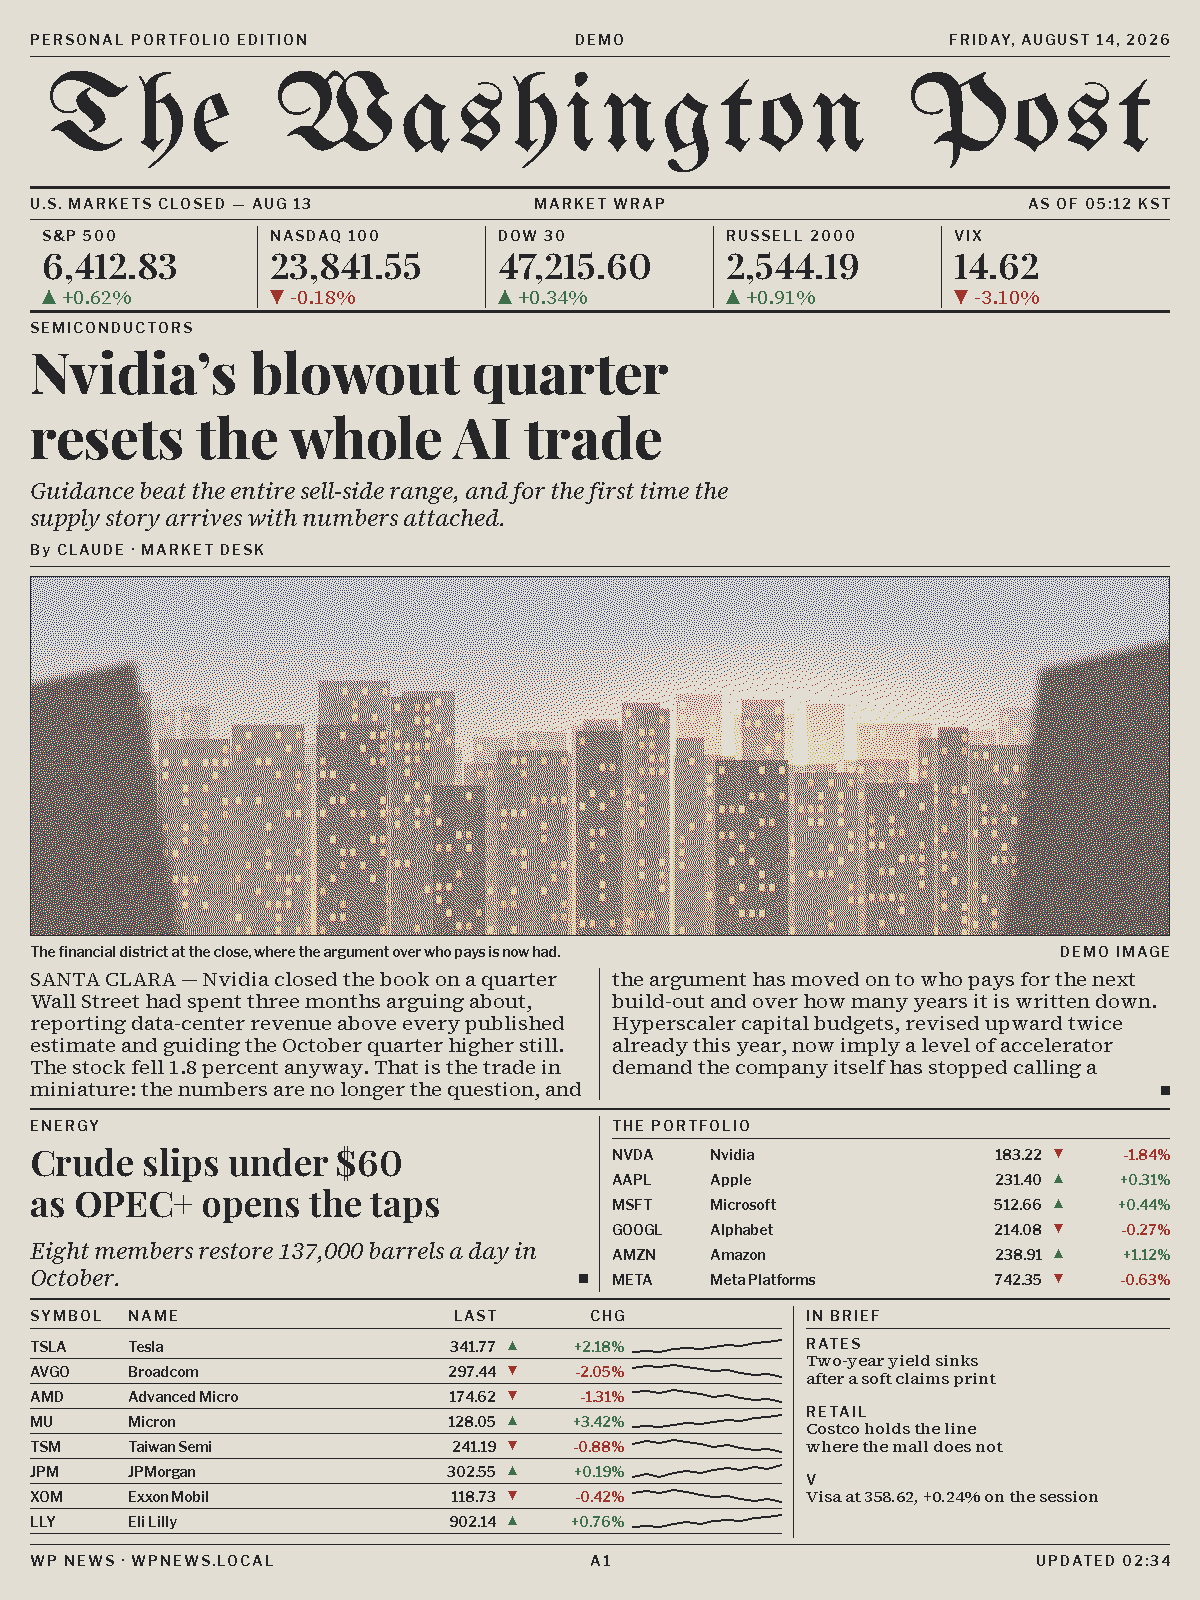
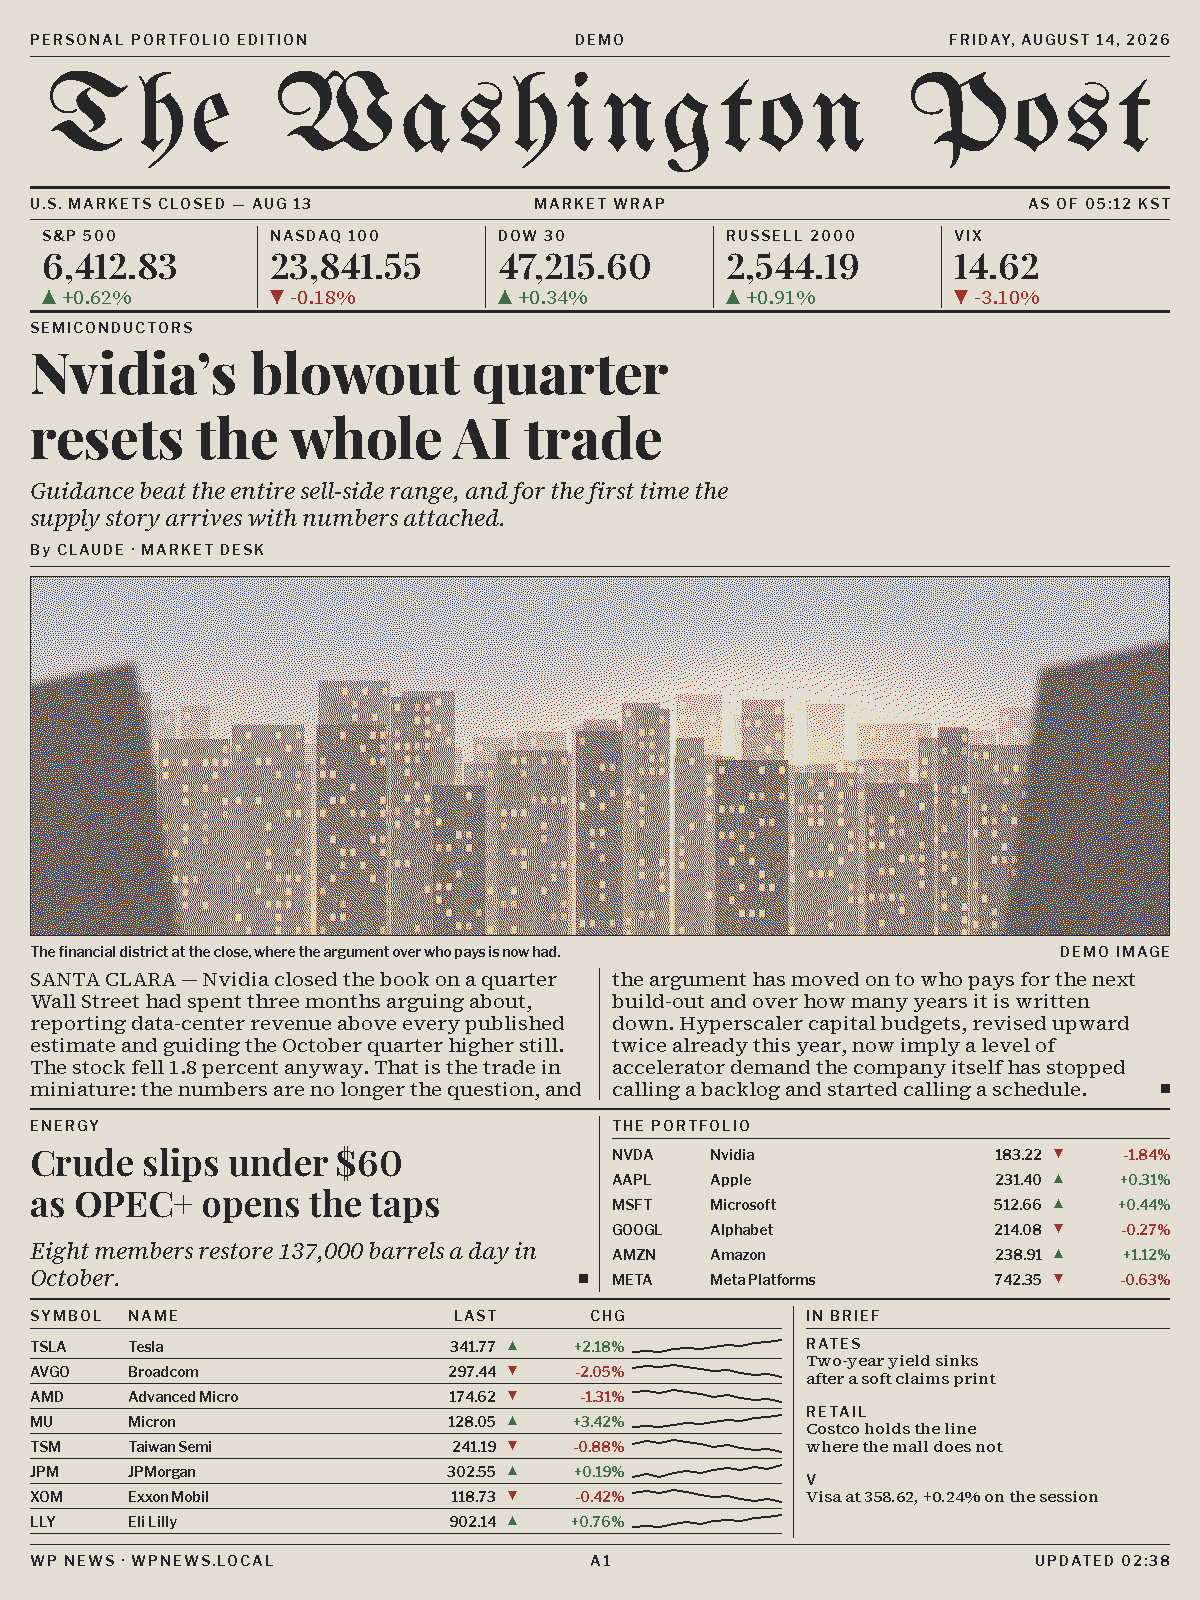
fix(front page): set the end mark inline, not on a line of its own
The end-of-story square was reserving a whole label_14 line at the foot of the
last leg. A press does not do that — the mark sits on the last line of type,
after the final word, and only needs the width of itself plus a word space.

So the reserve moves from vertical to horizontal: UI_END_MEASURE(w) takes the
square and one field gap off the measure of the leg that carries it, and the
copyfit is handed the narrower width. The leg keeps its full height, which is
the point: the previous version spent 18 px of every column on white space to
hold a 9 px mark.

Simulator 0 problems across ten sheets, eight host suites pass, firmware links.

Changed region(s): [[0.4933, 0.625, 0.9558, 0.6875]]

diff --git a/components/news_core/ui_page_front.c b/components/news_core/ui_page_front.c
@@ -134,6 +134,14 @@
  * character is appended to a string ui_fit_text has already decided fits. */
 #define FP_CAP_ELLIPSIS 16
 
+/* Where the lead's legs stand, which is the only thing the photograph changes
+ * about them. Two macros rather than the ternary written out at each of the
+ * three places that needs it — the layout, the copyfit and the end mark — all
+ * of which have to agree to the pixel or the story's closing square lands in
+ * the middle of its own last paragraph. */
+#define FP_LEG_Y(photo) ((photo) ? UI_LEAD_UNDER_Y : UI_LEAD_SPLIT_Y)
+#define FP_LEG_H(photo) ((photo) ? UI_LEAD_UNDER_H : UI_LEAD_BODY_H)
+
 /* Copy buffers, sized in BYTES against slots measured in CHARACTERS. The lead
  * takes 636 characters across its two legs under a photograph and 2,400 with a
  * chart in one of them instead, but a copy desk emits em dashes and accented
@@ -567,14 +575,17 @@ static void build_lead(void)
                        UI_LEAD_CAP_Y, UI_LEAD_CRED_MAX_W,
                        LV_TEXT_ALIGN_RIGHT, "");
 
+    /* The last leg is the narrow one: it is the leg the story ends in, and
+     * UI_LEAD_LEG_W is what the end mark's column costs it. */
     for (int i = 0; i < UI_LEAD_COLS; i++) {
         s_lead_body[i] = column(UI_LEAD_COL_X(i), UI_LEAD_SPLIT_Y,
-                                UI_LEAD_COL_W, UI_LEAD_BODY_H, UI_F_BODY_LG);
+                                i == UI_LEAD_COLS - 1 ? UI_LEAD_LEG_W
+                                                      : UI_LEAD_COL_W,
+                                UI_LEAD_BODY_H, UI_F_BODY_LG);
     }
 
-    /* The square that closes the story. Placed by lead_layout() rather than
-     * here, because it sits at the foot of the LAST leg and the legs move
-     * between the well's two shapes. */
+    /* The square that closes the story. Placed by set_lead_body(), which is
+     * where the copy that decides which line is the last one is settled. */
     s_lead_end = ui_fill(s_page, UI_LEAD_COL_X(UI_LEAD_COLS - 1), UI_LEAD_SPLIT_Y,
                          UI_END_SIDE, UI_END_SIDE);
 
@@ -608,41 +619,53 @@ static void edge_box(int x, int y, int w, int h)
     lv_obj_set_height(s_lead_edge[3], h);
 }
 
-/* How much of a leg is not the leg: one label_14 line at the foot of the LAST
- * one, kept back for the end-of-story square. It is measured off the face
- * rather than written down so that a regenerated label_14 moves the reserve and
- * the mark together. */
-static int end_reserve(void)
-{
-    return lv_font_get_line_height(UI_F_LABEL);
-}
-
-/* The well's two shapes, in the only four objects that move between them: the
- * legs, the rule between them and the end mark start under the photograph when
- * there is one and at the split when there is not. Positioned rather than built
- * twice — a second pair of body labels would be a second pair to blank, and the
- * failure that hides in that is the pair nobody blanked.
- *
- * Only the LAST leg is shortened. The first one runs to the foot of the well as
- * it always did: a story reads down column one and continues at the top of
- * column two, so column one has no end to mark and giving it a reserve would
- * cost a line of copy to close nothing. */
+/* The well's two shapes, in the only three objects that move between them: the
+ * legs and the rule between them start under the photograph when there is one
+ * and at the split when there is not. Positioned rather than built twice — a
+ * second pair of body labels would be a second pair to blank, and the failure
+ * that hides in that is the pair nobody blanked. */
 static void lead_layout(bool photo)
 {
-    const int y    = photo ? UI_LEAD_UNDER_Y : UI_LEAD_SPLIT_Y;
-    const int h    = photo ? UI_LEAD_UNDER_H : UI_LEAD_BODY_H;
-    const int keep = end_reserve();
+    const int y = FP_LEG_Y(photo);
+    const int h = FP_LEG_H(photo);
 
     for (int i = 0; i < UI_LEAD_COLS; i++) {
         lv_obj_set_pos(s_lead_body[i], UI_LEAD_COL_X(i), y);
-        ui_lab_wrap(s_lead_body[i], i == UI_LEAD_COLS - 1 ? h - keep : h);
+        ui_lab_wrap(s_lead_body[i], h);
     }
     lv_obj_set_pos(s_lead_vrule, UI_LEAD_VRULE_X, y);
     lv_obj_set_height(s_lead_vrule, h);
+}
 
-    lv_obj_set_pos(s_lead_end,
-                   UI_LEAD_COL_X(UI_LEAD_COLS - 1) + UI_LEAD_COL_W - UI_END_SIDE,
-                   y + h - keep + (keep - UI_END_SIDE) / 2);
+/* The end-of-story square, on the last line a box actually set.
+ *
+ * One measurement and no second opinion about the copy: the text is the string
+ * that has already been fitted, `w` is the measure it was fitted to — the one
+ * with UI_END_MEASURE's column taken out — and the height it sets at, divided
+ * by the face's, is which line the mark belongs on. LVGL rounds an ellipsis
+ * down to a whole line, so clamping to the lines the box can show is exact
+ * rather than approximate.
+ *
+ * `right` is the edge the mark hangs from, and it is the FULL measure's rather
+ * than the text's: the square lines up with the rules, the photograph and the
+ * headline above it, in the column no line of the copy can reach. */
+static void end_mark(lv_obj_t *m, const char *txt, const lv_font_t *f,
+                     int right, int y, int w, int h)
+{
+    const int lh = lv_font_get_line_height(f);
+    if (!txt || !txt[0] || lh <= 0 || h < lh) { ui_show(m, false); return; }
+
+    lv_point_t sz;
+    lv_text_get_size(&sz, txt, f, 0, 0, (int32_t)w, LV_TEXT_FLAG_NONE);
+
+    const int max = h / lh;
+    int lines = (int)((sz.y + lh - 1) / lh);
+    if (lines < 1)   lines = 1;
+    if (lines > max) lines = max;
+
+    lv_obj_set_pos(m, right - UI_END_SIDE,
+                   y + (lines - 1) * lh + (lh - UI_END_SIDE) / 2);
+    ui_show(m, true);
 }
 
 /* The lead well with no lead in it: the same five indices as band 4, one to a
@@ -844,18 +867,15 @@ static int split_h(const char *body, int w, int h, const lv_font_t *f)
     return first * lh;
 }
 
-/* The last leg is copyfitted into a box one line shorter than it has, and that
- * line is where the end mark goes. It is done HERE, in the caller, rather than
- * inside ui_fit_text: that function's contract is "fit this text in this box",
- * and one that quietly held a line back for something it cannot see would
- * surprise every other caller of it. What is left over is dropped, which is the
- * whole of the policy — this paper has two pages and the second one is a
- * quotation table, so there is nowhere for a story to be continued to and a
- * jump line would be a lie set in italic.
+/* Each leg is copyfitted to its OWN measure, and the last one's is narrower by
+ * the column the end mark stands in. Whatever does not fit is dropped, which is
+ * the whole of the policy: this paper has two pages, the second is a quotation
+ * table, so there is nowhere for a story to be continued to and a "Continued on
+ * A2" would be a lie set in italic. The square is what says so.
  *
- * The mark is shown only when the leg it closes has type in it. A square alone
- * at the foot of an empty column is not an end mark, it is a speck. */
-static void set_lead_body(const char *body, bool two_col, int h)
+ * It is shown only when the leg it closes has type in it. A square alone at the
+ * foot of an empty column is not an end mark, it is a speck. */
+static void set_lead_body(const char *body, bool two_col, int y, int h)
 {
     size_t used = 0;
 
@@ -867,11 +887,13 @@ static void set_lead_body(const char *body, bool two_col, int h)
     }
     ui_show(s_lead_body[0], two_col);
 
-    ui_fit_text(UI_F_BODY_LG, UI_LEAD_COL_W, h - end_reserve(), 0,
+    ui_fit_text(UI_F_BODY_LG, UI_LEAD_LEG_W, h, 0,
                 body + used, s_copy_lead[1], sizeof s_copy_lead[1]);
     ui_set(s_lead_body[1], s_copy_lead[1]);
     ui_show(s_lead_body[1], true);
-    ui_show(s_lead_end, s_copy_lead[1][0] != '\0');
+
+    end_mark(s_lead_end, s_copy_lead[1], UI_F_BODY_LG, UI_CONTENT_R,
+             y, UI_LEAD_LEG_W, h);
 }
 
 /* The whole of the layout decision, and it is one question asked once: did the
@@ -950,7 +972,7 @@ static void set_lead(const news_story_t *st)
     ui_show(s_lead_cap, photo);
     ui_show(s_lead_cred, cw > 0);
 
-    set_lead_body(st->body, !chart, photo ? UI_LEAD_UNDER_H : UI_LEAD_BODY_H);
+    set_lead_body(st->body, !chart, FP_LEG_Y(photo), FP_LEG_H(photo));
 }
 
 /* --- band 6: one story, and the portfolio ---------------------------------
@@ -998,32 +1020,14 @@ static void set_second(const news_story_t *st)
              st->headline, s_head_sec, sizeof s_head_sec);
     ui_set(s_sec.deck, st->deck);
 
-    /* The end mark goes on the deck's LAST line, which is where a printed one
-     * goes — not on a line of its own under it, because band 6 has no line to
-     * spare (see UI_SECOND_DECK_W). Which line that is takes one measurement:
-     * the deck's height at its own measure, divided by the face's, clamped to
-     * the lines the box can show. LVGL's ellipsis rounds down to a whole line,
-     * so the clamp is exact rather than approximate.
-     *
-     * A story with no deck gets no mark. Its last element is then the headline,
-     * and a headline is not a thing an end mark closes — that item is a brief,
-     * and briefs do not carry one. */
-    const int lh  = lv_font_get_line_height(UI_F_DECK);
-    const int max = lh > 0 ? UI_SECOND_DECK_H / lh : 1;
-
-    lv_point_t sz;
-    lv_text_get_size(&sz, st->deck, UI_F_DECK, 0, 0, UI_SECOND_DECK_W,
-                     LV_TEXT_FLAG_NONE);
-
-    int lines = lh > 0 ? (int)((sz.y + lh - 1) / lh) : 1;
-    if (lines < 1)   lines = 1;
-    if (lines > max) lines = max;
-
-    lv_obj_set_pos(s_sec_end, UI_SECOND_X + UI_SECOND_W - UI_END_SIDE,
-                   UI_SECOND_DECK_Y + (lines - 1) * lh + (lh - UI_END_SIDE) / 2);
-
     show_story(true);
-    ui_show(s_sec_end, st->deck[0] != '\0');
+
+    /* The deck is this story's last element — there is no body under it — so
+     * the deck is what the mark closes. A story with no deck gets none: its
+     * last element is then the headline, and a headline is not a thing an end
+     * mark closes. That item is a brief, and briefs do not carry one. */
+    end_mark(s_sec_end, st->deck, UI_F_DECK, UI_SECOND_X + UI_SECOND_W,
+             UI_SECOND_DECK_Y, UI_SECOND_DECK_W, UI_SECOND_DECK_H);
 }
 
 static void build_rail(void)

diff --git a/components/news_core/ui_internal.h b/components/news_core/ui_internal.h
@@ -304,21 +304,37 @@ extern "C" {
 #define UI_LEAD_CAP_GAP       UI_TICKER_FIELD_GAP       /*    8 */
 
 /* --- the end-of-story mark -------------------------------------------------
- * A small filled square at the foot of the last leg of a story, flush right of
- * its measure. Every broadsheet closes a story with one, and this sheet needed
- * it more than most: a leg copyfitted to its box stops on whatever word the
- * pixel ran out on, so without a mark the reader cannot tell a story that ended
- * from one that was cut — and on a two-page paper whose second page is a
- * quotation table, there is nowhere for a cut story to be continued TO. The
- * bytes past the cut are dropped, and the square is the page saying so.
+ * A small filled square on the last line of a story, flush right of its
+ * measure. Every broadsheet closes a story with one, and this sheet needs it
+ * more than most: a leg copyfitted to its box stops on whatever word the pixel
+ * ran out on, so without a mark the reader cannot tell a story that ended from
+ * one that was cut — and on a two-page paper whose second page is a quotation
+ * table there is nowhere for a cut story to be continued TO. The bytes past the
+ * cut are dropped, and the square is the page saying so.
  *
- * Nine pixels: about half the label_14 line it sits on, which is the
- * proportion a printed end mark has against the type it closes. The room for it
- * is bought in LAYOUT rather than taken from the copy at draw time — the leg is
- * copyfitted to a box one label_14 line shorter and the square is drawn in the
- * line that was kept back — so nothing measures text twice and ui_fit_text's
- * contract stays "fit this text in this box". */
+ * Nine pixels: about half the line it sits on, which is the proportion a
+ * printed end mark has against the type it closes.
+ *
+ * THE ROOM IS TAKEN OFF THE MEASURE AND NOT OFF THE DEPTH, and the difference
+ * is a line of copy per story. Reserving a LINE at the foot of the box — set
+ * the text into a box one line shorter, put the square in the line kept back —
+ * is the obvious shape and it was rendered before this was written: on the demo
+ * front page it cost the lead exactly the line that ended "...started calling a
+ * schedule.", so the paragraph then stopped on an indefinite article with a
+ * square after it announcing that it had finished. A mark that says "this story
+ * ended" bought by deleting the sentence that ended it is the wrong trade at
+ * any price.
+ *
+ * Off the MEASURE it costs about a character and a half a line, and it buys the
+ * one property that makes the placement safe: no line of the box can ever enter
+ * the column the square stands in, so the square goes on the LAST line — where
+ * a printed end mark goes — with no possibility of it landing on type, and
+ * without anything having to measure where that line's words actually stopped.
+ * The copy is still copyfitted by ui_fit_text against the narrower measure, so
+ * that function's contract is untouched: it is still being asked to fit this
+ * text in this box, and the box is simply the one the mark is not in. */
 #define UI_END_SIDE            9
+#define UI_END_MEASURE(w)     ((w) - UI_END_SIDE - UI_TICKER_FIELD_GAP)
 
 /* The story's own legs, and they are the same two columns in both of the well's
  * shapes — only their depth changes, because only the top of the well does.
@@ -339,6 +355,15 @@ extern "C" {
 #define UI_LEAD_COLS          2
 #define UI_LEAD_COL_W         UI_MEASURE_LG_W           /*  558, 53 chars */
 #define UI_LEAD_COL_X(i)      UI_COLX(3 * (i))          /*   30, 612 */
+
+/* The LAST leg sets to a measure 17 px shorter, which is where the story's end
+ * mark stands. Only the last one: the first leg has no end to mark — the story
+ * runs out of it and into the second — so a column taken off it would buy
+ * nothing and cost the same character and a half a line. Two ragged-right legs
+ * differing by 17 px of measure is not a difference anybody can see; a first
+ * leg with a square at the foot of it, in the middle of a sentence that
+ * continues at the top of the next column, is. */
+#define UI_LEAD_LEG_W         UI_END_MEASURE(UI_LEAD_COL_W)     /*  541 */
 
 #define UI_LEAD_BODY_H        (UI_LEAD_Y + UI_LEAD_H - UI_LEAD_SPLIT_Y)   /* 524 */
 #define UI_LEAD_UNDER_Y       (UI_LEAD_Y + 650)                           /* 968 */
@@ -381,21 +406,12 @@ extern "C" {
 #define UI_SECOND_DECK_H      54
 
 /* The deck is the secondary's LAST element — there is no body under it — so it
- * is the deck that carries the story's end mark, and the seventeen pixels the
- * square and its gap need are taken out of the deck's MEASURE rather than out
- * of the band's depth. There is nothing in the band's depth to take: 18 + 82 +
- * 54 is 154 of the 176, and the 22 that are left are the air between the
- * headline and the deck, which is where a broadsheet spends it and not
- * somewhere a square can be put instead.
- *
- * Off the measure it costs nothing anybody sees. Every line of the deck wraps
- * inside 541 instead of 558, the square sits in the column that leaves, and
- * because the reservation is on EVERY line the mark can be placed on the last
- * one — where a printed end mark goes — with no possibility of it landing on
- * type. The lead's legs reserve a LINE instead, for the opposite reason: a
- * body leg's last line routinely runs the full measure, and paying 17 px on
- * each of six lines to close one of them is the wrong trade. */
-#define UI_SECOND_DECK_W      (UI_SECOND_W - UI_END_SIDE - UI_TICKER_FIELD_GAP)
+ * is the deck that carries the story's end mark, on the same reserved column
+ * the lead's last leg uses. There was in any case nothing in this band's depth
+ * to take a line from: 18 + 82 + 54 is 154 of the 176, and the 22 that are left
+ * are the air between the headline and the deck, which is where a broadsheet
+ * spends it and not somewhere a square can be put instead. */
+#define UI_SECOND_DECK_W      UI_END_MEASURE(UI_SECOND_W)       /*  541 */
 
 /* The rail: its heading, a hairline, and six holdings at the 25 px pitch the
  * quotation table below it uses. Six rather than eight because six is what
